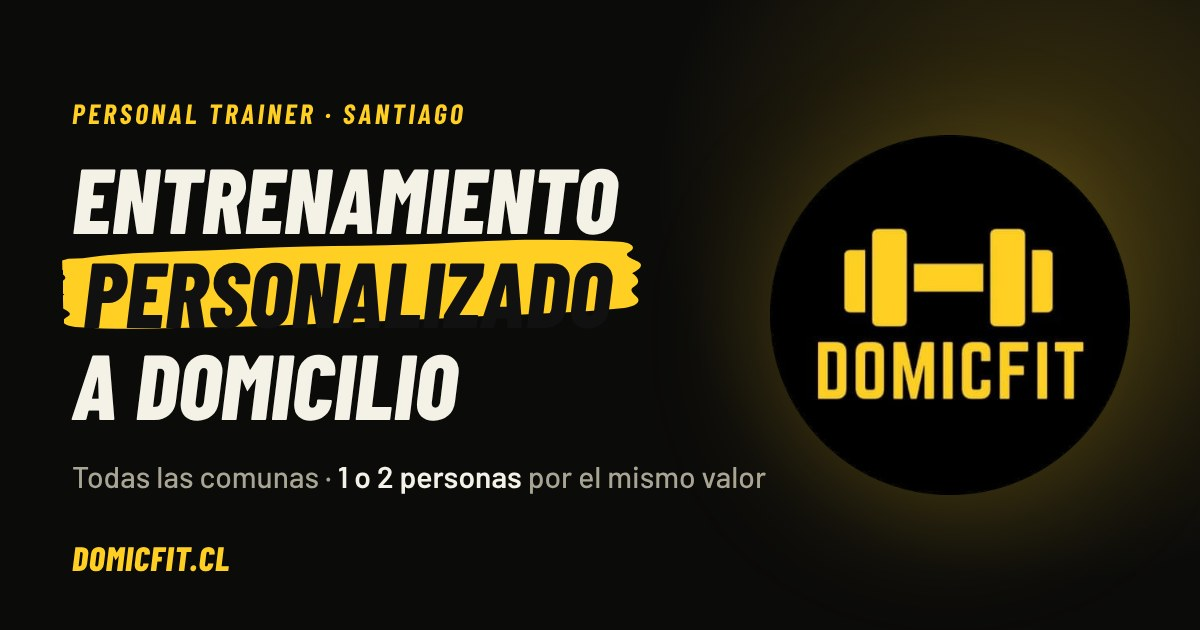
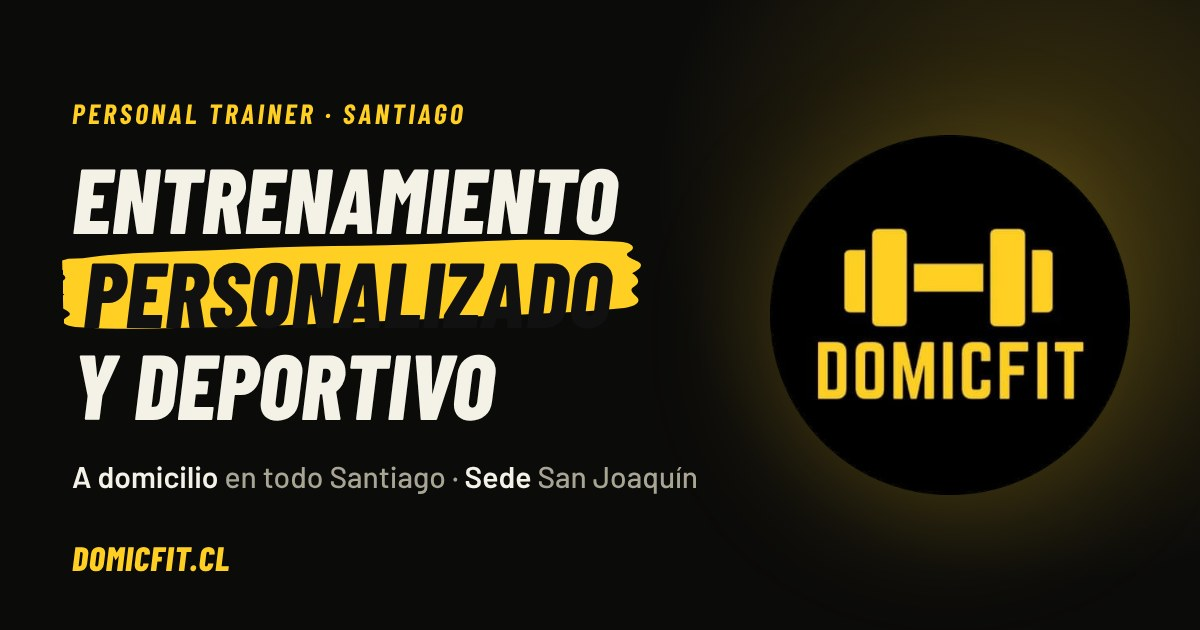
Imagen para compartir: entrenamiento personalizado y deportivo, a domicilio y en sede

Changed region(s): [[0.0617, 0.5429, 0.4317, 0.6937], [0.0617, 0.7238, 0.6475, 0.7841]]

diff --git a/public/index.html b/public/index.html
@@ -3,7 +3,7 @@
 <head>
   <meta charset="utf-8">
   <meta name="viewport" content="width=device-width, initial-scale=1">
-  <title>Domicfit | Personal trainer a domicilio en Santiago</title>
+  <title>Domicfit | Personal trainer a domicilio y en sede en Santiago</title>
   <meta name="description" content="Personal trainer a domicilio en todas las comunas de Santiago, o en nuestra sede de San Joaquín. Entrenamiento personalizado para 1 o 2 personas por el mismo valor, con evaluación mensual. Clase de prueba gratis en sede.">
   <link rel="canonical" href="https://www.domicfit.cl/">
   <meta name="theme-color" content="#0B0B0A">
@@ -13,12 +13,12 @@
   <meta property="og:type" content="website">
   <meta property="og:locale" content="es_CL">
   <meta property="og:site_name" content="Domicfit">
-  <meta property="og:title" content="Domicfit | Personal trainer a domicilio en Santiago">
-  <meta property="og:description" content="Entrena en tu casa o en nuestra sede de San Joaquín, con evaluación mensual para que veas tu progreso real. 1 o 2 personas por el mismo valor.">
+  <meta property="og:title" content="Domicfit | Entrenamiento personalizado y deportivo">
+  <meta property="og:description" content="Entrena en tu casa, en cualquier comuna de Santiago, o en nuestra sede de San Joaquín, con evaluación mensual para que veas tu progreso real. 1 o 2 personas por el mismo valor.">
   <meta property="og:image" content="https://www.domicfit.cl/assets/img/compartir.jpg">
   <meta property="og:image:width" content="1200">
   <meta property="og:image:height" content="630">
-  <meta property="og:image:alt" content="Domicfit: entrenamiento personalizado a domicilio en Santiago">
+  <meta property="og:image:alt" content="Domicfit: entrenamiento personalizado y deportivo, a domicilio en Santiago y en sede San Joaquín">
   <meta property="og:url" content="https://www.domicfit.cl/">
   <meta name="twitter:card" content="summary_large_image">
   <!-- Datos del negocio para Google -->
